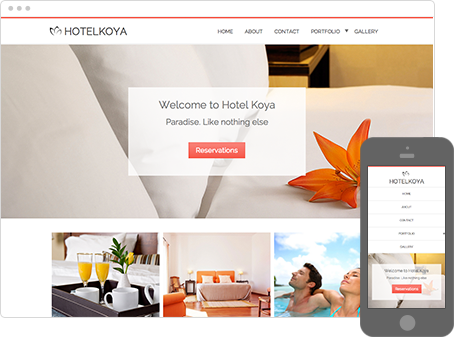
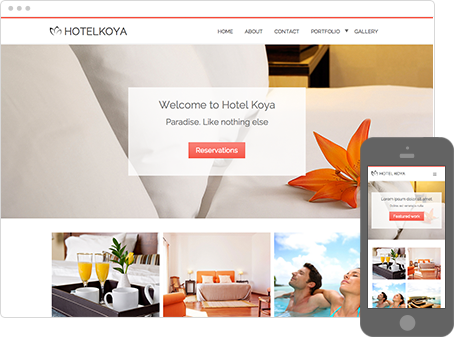
changes in navigation and thumbnail

Changed region(s): [[0.8, 0.5015, 0.9846, 0.9145]]

diff --git a/stylesheet.less b/stylesheet.less
@@ -133,7 +133,7 @@ header {
 .companyheader {
   display: block;
   float: left;
-  padding: 14px 0px;
+  padding: 11px 0px;
 }
 
 /* COMPANY NAME */
@@ -141,7 +141,7 @@ header {
 .widget.companyname {
   display: block;
   float: left;
-  margin-top: 12px;
+  margin-top: 10px;
 }
 
 .companyname a:hover {
@@ -297,6 +297,10 @@ footer .widget.content {
   max-width: 690px;
 }
 
+.widget.extendednavigation a.pull {
+  display: none;
+}
+
 .widget.extendednavigation ul {
   float: left;
   padding: 0;
@@ -321,7 +325,7 @@ footer .widget.content {
 .widget.extendednavigation ul li {
   float: left;
   display: block;
-  padding: 26px 0 20px 0;
+  padding: 26px 0 16px 0;
   border-bottom: 4px solid @color-swatch2;
 }
 
@@ -341,7 +345,6 @@ footer .widget.content {
   line-height:@font-swatch6-line-height;
   letter-spacing: @font-swatch6-letter-spacing;
   text-transform: uppercase;
-  text-align: center;
 }
 
 .widget.extendednavigation ul li.folder .text:hover {
@@ -353,16 +356,9 @@ footer .widget.content {
 }
 
 .widget.extendednavigation ul li.folder {
-  padding-right: 8px;
+  padding-right: 1px;
   height: 100%;
   cursor: pointer;
-}
-
-.svg .widget.extendednavigation ul li.folder {
-  background-image: image('/images/arrow-down.svg');
-  background-size: 11px;
-  background-position: right center;
-  background-repeat: no-repeat;
 }
 
 .widget.extendednavigation ul li.folder {
@@ -387,14 +383,14 @@ footer .widget.content {
   position: absolute;
   background-color: @color-swatch2;
   z-index: 500;
-  margin-top: 24px;
+  margin-top: 20px;
 }
 
 .widget.extendednavigation li:hover > ul > li {
   display: block;
   width: 100%;
   text-align: left;
-  border-bottom: 2px solid @color-swatch1;
+  border-bottom: 1px solid @color-swatch1;
   padding: 10px 0;
 }
 
@@ -1399,7 +1395,7 @@ footer .widget.profile .twitter span {
 
 .widget.profile .bk-profile-socialicons a {
     text-decoration: none;
-    text-indent: 9999px;
+    text-indent: -9999px;
     white-space: nowrap;
     height: 32px;
     width: 32px;
@@ -1433,7 +1429,7 @@ footer .widget.profile .twitter span {
 
 .widget.socialicons a {
     text-decoration: none;
-    text-indent: 9999px;
+    text-indent: -9999px;
     white-space: nowrap;
     height: 32px;
     width: 32px;
@@ -1802,29 +1798,13 @@ footer .widget.profile .twitter span {
     border-bottom: 0;
   }
 
-   header .wrapper {
-    margin: 0 auto;
-    width: 100%;
-  }
-
  .companyheader {
     width: 100%;
     display: block;
     margin: 0 auto;
-    text-align: center;
   }
 
-  .widget.logo {
-    float: none;
-    padding: 8px 8px 0 0;
-  }
-
-  .widget.companyname {
-    text-align: center;
-    float: none;
-  }
-
-  .companyname a {
+  .widget.companyname a {
     font-size:bkscale(@font-swatch10-font-size, 0.9);
   }
 
@@ -1836,56 +1816,76 @@ footer .widget.profile .twitter span {
     padding: 0;
     border-top: 4px solid @color-swatch2;
   }
+
   .widget .extendednavigation {
-    display: table;
-    *display: block;
-    *float: left;
+    display: block;
+    float: left;
     width: 100%;
   }
 
-  .widget .extendednavigation ul {
-    display: table-row;
+  /* NAV ICON */
+
+  .widget .extendednavigation a.pull {
+    display: block;
     width: 100%;
-    float: none!important;
+    position: absolute;
+    top: 7px;
+  }
+
+    .widget .extendednavigation a.pull:after {
+    content:"";
+    background: image('/images/nav-icon.png') no-repeat;
+    width: 30px;
+    height: 30px;
+    display: inline-block;
+    position: absolute;
+    right: 15px;
+    top: -50px;
+  }
+
+  /* NAV */
+
+ .widget .extendednavigation ul {
+    width: 100%;
+    display: none;
+    margin: 0;
   }
 
   .widget.extendednavigation ul li {
-    padding: 15px 0 11px 0;
-  }
+  border-bottom: 1px solid @color-swatch2;
+  padding: 16px 0;
+}
+
+
+.widget.extendednavigation ul li:hover {
+  border-bottom: 1px solid @color-swatch3;
+}
 
   .widget .extendednavigation li {
-    display: table-cell !important;
-    float: none!important;
-    text-align: center;
+    width: 100%;
+    padding: 0;
   }
 
   .widget.extendednavigation ul li a, .widget.extendednavigation ul li.folder .text {
-    margin-left: 0;
+      padding: 5px 0;
+      margin: 0;
   }
 
-  .widget .extendednavigation li:last-child
-   {
-    border-right: 0;
-   }
-
-   .widget .extendednavigation li:first-child
-   {
-    border-left: 0;
-   }
-
-  .widget.extendednavigation li:hover > ul {
-    width: 28%;
-    padding: 0;
-    margin-top:15px;
+  .widget.extendednavigation ul li > ul {
+      display: none!important;
   }
 
-  .widget.extendednavigation li:hover > ul li {
-    display: block!important;
+  .widget.extendednavigation ul li:hover > ul {
+      display: block!important;
+      width: 100%;
+      margin: 17px 0;
+      padding: 0;
   }
 
-   .widget.extendednavigation ul li:hover > ul li.folder .text {
-    margin-left: 0;
+  .widget.extendednavigation ul li:hover > ul li {
+      padding: 10px;
   }
+
 
   /* EXTENDED NAVIGATION - INSIDE ZONE */
 
@@ -1987,106 +1987,8 @@ footer .widget.profile .twitter span {
   }
 
   /* COMPANY HEADER */
-  .widget.companyheader .company-name h1 {
-    font-size:bkscale(@font-swatch1-font-size, 0.8);
-  }
-
-  /* NAV */
-
-  .widget.extendednavigation {
-    width: 100%;
-    border-top: none;
-  }
-  .widget .extendednavigation {
-    display: block;
-    width: 100%;
-  }
-
-  .widget .extendednavigation ul {
-    display: block;
-    width: 100%;
-    float: left;
-    margin: 0;
-    border-top: 4px solid @color-swatch2;
-
-  }
-
-  .widget .extendednavigation li {
-    display: block!important;
-    width: 100%;
-    border-bottom: 4px solid darken(@color-swatch2,2%);
-    padding: 0;
-  }
-
-  .widget.extendednavigation ul li {
-    padding: 0;
-  }
-
-  .widget.extendednavigation ul li.folder {
-    padding: 0;
-  }
-
-  .widget .extendednavigation ul li a {
-    border-left: 0;
-    border-right: 0;
-    padding: 1.4em 1em;
-  }
-
-  .widget.extendednavigation ul li.folder .text {
-    padding: 1.4em 1em;
-    margin-left: 0;
-  }
-
-  .widget .extendednavigation ul li:last-child {
-    border: 0;
-  }
-
-  .widget.extendednavigation li:hover > ul {
-    padding: 0;
-    margin: 4px 2.5% 0;
-    width: 95%;
-  }
-
-  .widget.extendednavigation li:hover > ul li {
-    display: block!important;
-    margin-bottom: 0;
-    text-align: center;
-    padding: 0;
-  }
-
-  .widget.extendednavigation li:hover > ul > li > a {
-    padding: 0;
-  }
-
-  .widget.extendednavigation ul li.folder:hover {
-    border-bottom: 4px solid @color-swatch3;
-  }
-
-  .widget.extendednavigation ul li:hover > ul li:first-child {
-    padding-top: 0;
-  }
-
-  .widget.extendednavigation ul li:hover > ul li:last-child {
-    border-bottom: 4px solid @color-swatch3;
-  }
-  
-  /* UL ALIGN RIGHT */
-  .widget.extendednavigation ul.align-right li:hover ul li {
-    text-align: right;
-  }
-
-  .widget.extendednavigation ul.align-right li.folder {
-    background-position: 12px center;
-  }
-
-  /* UL ALIGN CENTER */
-  .widget.extendednavigation ul.align-left li:hover ul li {
-    text-align: center;
-  }
-
-  /* UL ALIGN LEFT */
-  .widget.extendednavigation ul.align-left li:hover ul li {
-    text-align: left;
+  .widget.companyname a {
+    font-size:bkscale(@font-swatch1-font-size, 0.65);
   }
 
   /* FEATURE */
